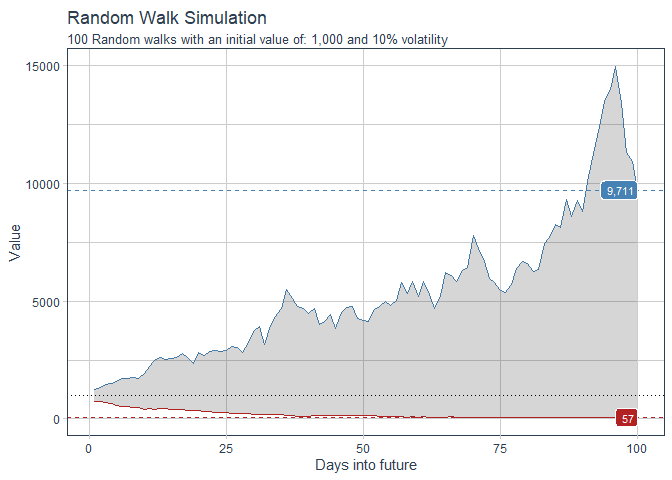
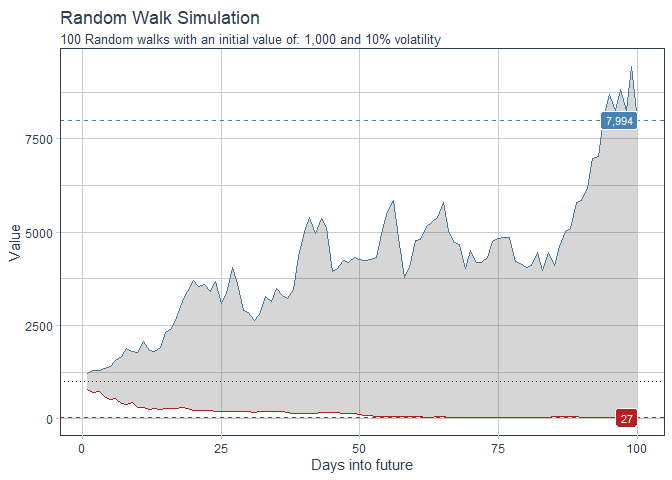
update for new CRAN release

diff --git a/README.md b/README.md
@@ -45,14 +45,14 @@ df <- ts_random_walk()
 
 head(df)
 #> # A tibble: 6 x 4
-#>     run     x       y cum_y
-#>   <dbl> <dbl>   <dbl> <dbl>
-#> 1     1     1 -0.0323  968.
-#> 2     1     2 -0.0302  938.
-#> 3     1     3 -0.148   800.
-#> 4     1     4 -0.120   704.
-#> 5     1     5 -0.131   612.
-#> 6     1     6 -0.118   539.
+#>     run     x        y cum_y
+#>   <dbl> <dbl>    <dbl> <dbl>
+#> 1     1     1  0.00155 1002.
+#> 2     1     2  0.0623  1064.
+#> 3     1     3  0.00881 1073.
+#> 4     1     4  0.128   1210.
+#> 5     1     5 -0.0399  1162.
+#> 6     1     6 -0.189    943.
 ```
 
 Now that the data has been generated, lets take a look at it.
